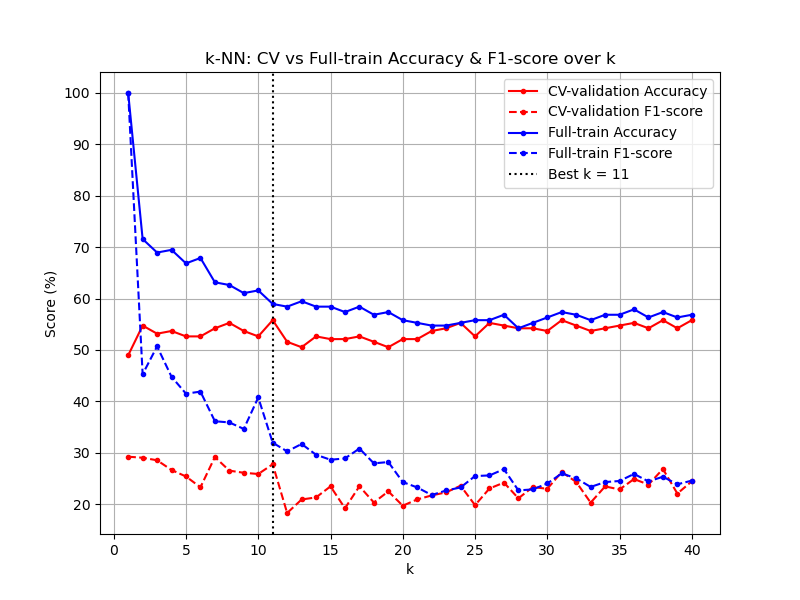
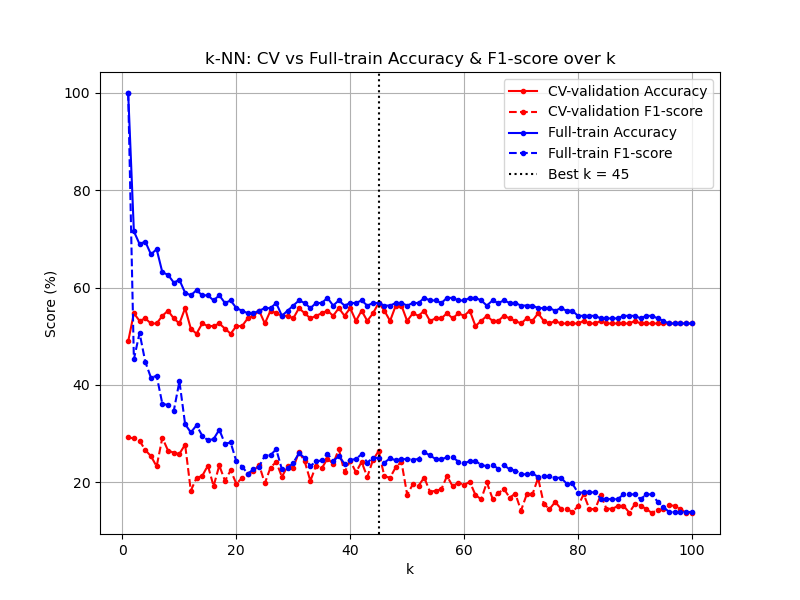
updated my part

diff --git a/main.py b/main.py
@@ -263,7 +263,7 @@ def main(args):
 
     if args.method == "knn" and not args.test:
 
-        kmax = 40 if args.K < 40 else args.K
+        kmax = 50 if args.K < 40 else args.K
         K = 5
         k_range = np.arange(1, kmax+1)
 
@@ -272,7 +272,7 @@ def main(args):
         cv_val_accs, cv_val_f1s = KNN.run_cv_for_hyperparam(xtrain_normalized, ytrain, K, k_range)
         print(f"\n5-Fold Cross Validation on {kmax} values of k in {time.time()-t0:.2f}s")
 
-        # pick best k by validation accuracy
+        # picking best k found for highest validation accuracy
         best_idx = np.argmax(cv_val_accs)
         best_k   = k_range[best_idx]
         print(f"\nBest k by 5-Fold Cross Validation : {best_k} \n---> Validation accuracy = {cv_val_accs[best_idx]:.3f}\n---> F1-score = {cv_val_f1s[best_idx]:.3f}")
@@ -286,7 +286,7 @@ def main(args):
             full_tr_accs[i] = accuracy_fn(pred, ytrain)
             full_tr_f1s [i] = macrof1_fn(pred, ytrain)
 
-        # Final model on all training data to test model on test data
+        # Final model runned on all training data to test model on test data
         final = KNN(k=best_k)
         pred_train = final.fit(xtrain_normalized, ytrain)
         pred_test = final.predict(xtest_normalized)
@@ -296,7 +296,7 @@ def main(args):
         print(f"\nFINAL [k={best_k}] : TRAIN accuracy = {tr_acc:.3f}%, F1-score = {tr_f1:.6f}")
         print(f"FINAL [k={best_k}] : TEST  accuracy = {te_acc:.3f}%, F1-score = {te_f1:.6f}\n")
 
-        # CV and full‐train plot
+        # Cross Val and Full‐train plot
         plt.figure(figsize=(8,6))
         plt.plot(k_range, cv_val_accs ,color = 'r', marker = '.',label="CV-validation Accuracy")
         plt.plot(k_range, cv_val_f1s *100 ,color = 'r', linestyle = '--', marker = '.', label="CV-validation F1-score")
